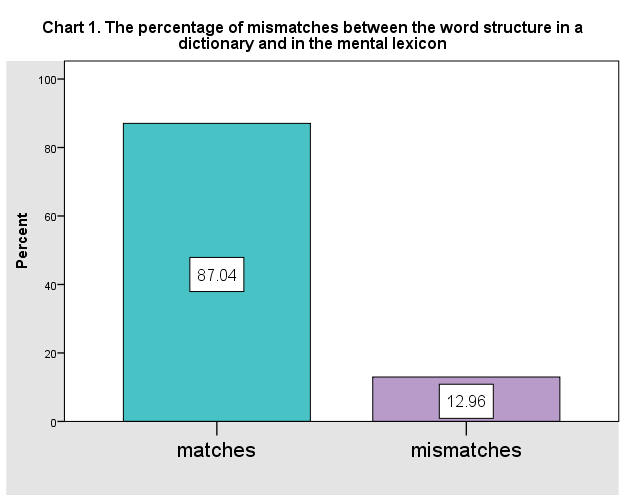
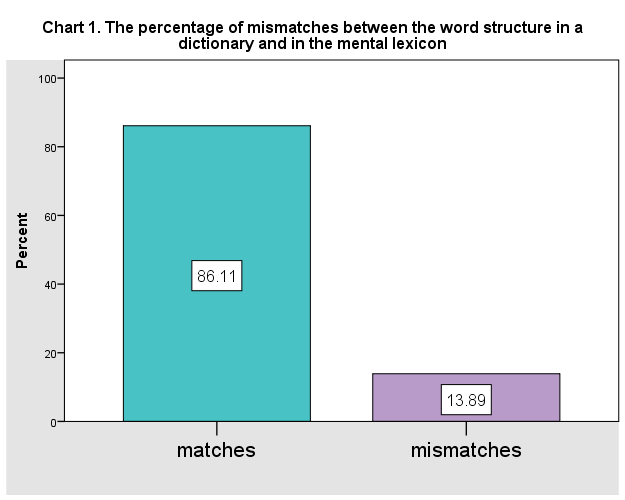
Correct typos and charts, and add list of stimuli

diff --git a/index.html b/index.html
@@ -259,12 +259,56 @@
               understand morphological structure of nouns.
             </p>
             <p>
-              <b>Participants</b>: 12 students (native speakers of Russian and
-              Belarusian).
+              <b>Participants</b>: 12&nbsp;students (native speakers of Russian
+              and Belarusian).
             </p>
             <p>
-              <b>Stimuli</b>: 10 non-compound nouns, 10 compound nouns, 10
-              fillers (2 experimental lists).
+              <b>Stimuli</b>: 12&nbsp;non-compound nouns, 12&nbsp;compound
+              nouns, 6&nbsp;fillers (2&nbsp;experimental lists).
+               
+              <button id="stimuliBtn">See stimuli</button>
+              <div id="stimuliModal" class="modal">
+                <div class="modal-content">
+                    <span class="close">&times;</span>
+                    <ol><span class="stimuli-type">Compounds</span>
+                        <ol><span class="stimuli-list">1st experimental list</span>
+                            <li>Бензапіла</li>
+                            <li>Вадаспад</li>
+                            <li>Кава-машына</li>
+                            <li>Мухабойка</li>
+                            <li>Мясапрадукт</li>
+                            <li>Сонцастаянне</li> 
+                        </ol>
+                        <ol start="7"><span class="stimuli-list">2nd experimental list</span>
+                            <li>Бензазапраўка</li>                         
+                            <li>Васьміног</li>
+                            <li>Відэазапіс</li>                       
+                            <li>Мышалоўка</li>                      
+                            <li>Насарог</li>
+                            <li>Фотаапарат</li>
+                        </ol>
+                    </ol>
+
+                    <ol><span class="stimuli-type">Non-compounds</span>
+                        <ol><span class="stimuli-list">1st experimental list</span>
+                            <li>Айсберг</li>
+                            <li>Кашалёк</li>
+                            <li>Морква</li>
+                            <li>Паштальён</li>
+                            <li>Попельніца</li>
+                            <li>Сяброўства</li> 
+                        </ol>
+                        <ol start="7"><span class="stimuli-list">2nd experimental list</span>
+                            <li>Бегемот</li>                         
+                            <li>Завушніца</li>
+                            <li>Матрос</li>                       
+                            <li>Парасон</li>                      
+                            <li>Паштоўка</li>
+                            <li>Ручнік</li>
+                        </ol>
+                    </ol>
+                </div>
+              </div> 
             </p>
             <p>
               <b>Procedure</b>: Participants were asked to read nouns and to
@@ -272,12 +316,13 @@
               asked not to think about it for too long and not to return to the
               already labelled nouns.
             </p>
-            <b>Results</b>. We got 162 valid answers. <br />
+            <b>Results</b>. We got 144&nbsp;valid answers. <br />
             <ol>
               <li>
                 Participants made very few mistakes in analyzing word structure.
-                Chart 1 presents quantitative data on the discrepancies between
-                dictionary word structures and those in the mental lexicon.
+                Chart&nbsp;1 presents quantitative data on the discrepancies
+                between dictionary word structures and those in the mental
+                lexicon.
               </li>
               <div class="illustration">
                 <img
@@ -290,13 +335,13 @@
                 Statistical analysis revealed significant correlation between
                 variables “noun structure according dictionary” and “noun
                 structure according participant”: <br /><span class="stat"
-                  >chi-square = 88,023, df = 1, p < 0,001</span
+                  >chi-square = 75,636, df = 1, p < 0,001</span
                 >.
               </li>
             </ol>
             <p>
-              Chart 2 shows the relationship between dictionary compounds and
-              their representation in the mental lexicon of participants.
+              Chart&nbsp;2 shows the relationship between dictionary compounds
+              and their representation in the mental lexicon of participants.
             </p>
             <div class="illustration">
               <img
@@ -339,22 +384,23 @@
             <p><b>Stimuli</b>: same as for the first experiment.</p>
             <p>
               <b>Procedure</b>: Participants were asked to read words and to
-              write 1-3 associations (the first ones that come into mind).
+              write 1-3&nbsp;associations (the first ones that come into mind).
               Participants were asked not to think for too long and not to
               return to the previous answers.
             </p>
             <p>
-              <b>Results</b>. We got 162 valid answers (199 associations).
+              <b>Results</b>. We got 144&nbsp;valid answers
+              (177&nbsp;associations).
               <br />
               Statistical analysis revealed significant correlation between
               variables “noun structure” and “presence/absence of morphological
               connection between association and stimulus”:<br />
-              <span class="stat">chi-square = 9,541, df = 1, p < 0,002</span>.
+              <span class="stat">chi-square = 5,786, df = 1, p < 0,02</span>.
             </p>
             <p>
               Participants statistically more often produced associations that
               were morphologically connected to the stimuli in case of
-              <b><i>compound</i></b> nouns (Chart 3).
+              <b><i>compound</i></b> nouns (Chart&nbsp;3).
             </p>
             <div class="illustration">
               <img
@@ -491,5 +537,25 @@
         Wrocław, 9–11 July 2024</a
       >
     </footer>
+
+    <script>
+const modal = document.getElementById("stimuliModal");
+const btn = document.getElementById("stimuliBtn");
+const span = document.getElementsByClassName("close")[0];
+
+btn.onclick = function() {
+  modal.style.display = "block";
+}
+
+span.onclick = function() {
+  modal.style.display = "none";
+}
+
+window.onclick = function(event) {
+  if (event.target == modal) {
+    modal.style.display = "none";
+  }
+} 
+    </script>
   </body>
 </html>

diff --git a/style.css b/style.css
@@ -192,3 +192,59 @@ footer a {
   text-decoration: none;
   cursor: pointer;
 }
+
+.modal {
+  display: none;
+  position: fixed;
+  z-index: 1;
+  left: 0;
+  top: 0;
+  width: 100%;
+  height: 100%;
+  overflow: auto;
+  background-color: rgb(0, 0, 0);
+  background-color: rgba(0, 0, 0, 0.4);
+}
+
+.modal-content {
+  background-color: #fefefe;
+  margin: 15% auto;
+  padding: 30px;
+  border: 1px solid #888;
+  line-height: 1.5;
+}
+
+.close {
+  color: #b41212;
+  float: right;
+  font-size: 64px;
+  font-weight: bold;
+}
+
+.close:hover,
+.close:focus {
+  color: black;
+  text-decoration: none;
+  cursor: pointer;
+}
+
+.stimuli-type {
+  font-size: 1.2em;
+  font-weight: 700;
+  color: #48c2c5;
+}
+
+.stimuli-list {
+  font-size: 1.1em;
+  color: #7aaad5;
+}
+
+#stimuliBtn {
+  background-color: rgb(208, 166, 248);
+  border: 1px solid blueviolet;
+  box-shadow: 2px 4px 4px lightgrey;
+  padding: 4px 6px;
+  border-radius: 6px;
+  cursor: pointer;
+  font-size: 18px;
+}
